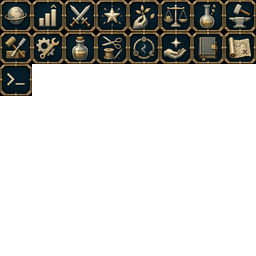
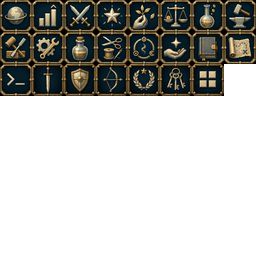
Draw the six subjects the tab strips and the skill table were missing
Attack, defense, ranging and overall are skills the statistics table names a
row each; combat was the crossed swords for the category, and there was
nothing that read as defence or as a bow. Utility is the third of the perk
window's filter tabs, of which only Combat and Magic resolved. And "all" is
the tab both strips lead with, which is not a subject but is a thing both of
them draw.

The packer can add a sheet to an atlas rather than only making one, so the
second set lands in cells 17-22 without the first being redrawn. Adding means
starting from what is already there: a blank canvas would have silently
dropped the seventeen.

The statistics table draws its icons at twenty rather than at the art's
thirty-two. Thirteen rows at full size is a column of pictures with a table
beside it; the list is read down the names, and the icon is there to be
recognised in passing. The shelves and tab strips keep the full size.

Changed region(s): [[0.125, 0.25, 0.875, 0.375]]

diff --git a/godot-client/tools/pack_ui_icon_sheet.py b/godot-client/tools/pack_ui_icon_sheet.py
@@ -67,8 +67,10 @@ def detect_tiles(source: Image.Image,
 
 def pack(source: Image.Image, source_grid: int, destination_grid: int,
          cell_size: int, count: int, canvas_size: int,
-         detect: bool = False) -> Image.Image:
-    atlas = Image.new("RGBA", (canvas_size, canvas_size), (0, 0, 0, 0))
+         detect: bool = False, start_index: int = 0,
+         base: Image.Image | None = None) -> Image.Image:
+    atlas = base if base is not None else Image.new(
+        "RGBA", (canvas_size, canvas_size), (0, 0, 0, 0))
     tiles = detect_tiles(source) if detect else None
     if tiles is not None and len(tiles) < count:
         raise SystemExit("found %d tiles in the sheet, needed %d"
@@ -83,7 +85,8 @@ def pack(source: Image.Image, source_grid: int, destination_grid: int,
             box = (left, top, right, bottom)
         icon = source.crop(box).resize(
             (cell_size, cell_size), Image.Resampling.LANCZOS)
-        destination_row, destination_column = divmod(index, destination_grid)
+        destination_row, destination_column = divmod(start_index + index,
+                                                     destination_grid)
         atlas.alpha_composite(icon, (destination_column * cell_size,
                                       destination_row * cell_size))
     return atlas
@@ -120,6 +123,11 @@ def main() -> None:
     parser.add_argument("--count", type=int, required=True)
     parser.add_argument("--canvas-size", type=int, default=256)
     parser.add_argument(
+        "--start-index", type=int, default=0,
+        help="place the first icon at this cell rather than at the start, so "
+             "a second sheet can be added to an atlas without redrawing the "
+             "first; the existing atlas is read back and added to")
+    parser.add_argument(
         "--detect", action="store_true",
         help="find the sheet's tiles instead of assuming an even grid, for a "
              "generated sheet whose rows and columns are only approximately "
@@ -128,8 +136,14 @@ def main() -> None:
     args = parser.parse_args()
 
     source = Image.open(args.source).convert("RGBA")
+    # Adding to an atlas means starting from it. Starting from a blank canvas
+    # would silently drop every icon already in it.
+    base = None
+    if args.start_index and args.destination.exists():
+        base = Image.open(args.destination).convert("RGBA")
     atlas = pack(source, args.source_grid, args.destination_grid,
-                 args.cell_size, args.count, args.canvas_size, args.detect)
+                 args.cell_size, args.count, args.canvas_size, args.detect,
+                 args.start_index, base)
     args.destination.parent.mkdir(parents=True, exist_ok=True)
     atlas.save(args.destination, optimize=True)
     if args.dds is not None:

diff --git a/godot-client/tests/test_subject_icon_atlas.py b/godot-client/tests/test_subject_icon_atlas.py
@@ -123,6 +123,19 @@ class SubjectCoverageTest(unittest.TestCase):
             with self.subTest(skill=skill):
                 self.assertTrue(self.resolves(skill))
 
+    def test_every_skill_the_statistics_table_lists_has_an_icon(self) -> None:
+        """The table names a skill per row. A skill added to a group without a
+        picture drawn for it leaves one row blank, which reads as a mistake
+        rather than as a gap."""
+        main = (CLIENT / "src" / "app" / "main.gd").read_text(encoding="utf-8")
+        block = main[main.index("const SKILL_GROUPS: Array[Array] = ["):]
+        block = block[:block.index(chr(10) + "]")]
+        for skill in re.findall(r'"([a-z]+)"', block):
+            if skill[0].isupper():
+                continue
+            with self.subTest(skill=skill):
+                self.assertTrue(self.resolves(skill))
+
     def test_an_alias_points_at_a_subject_that_exists(self) -> None:
         for alias, target in self.aliases.items():
             with self.subTest(alias=alias):
